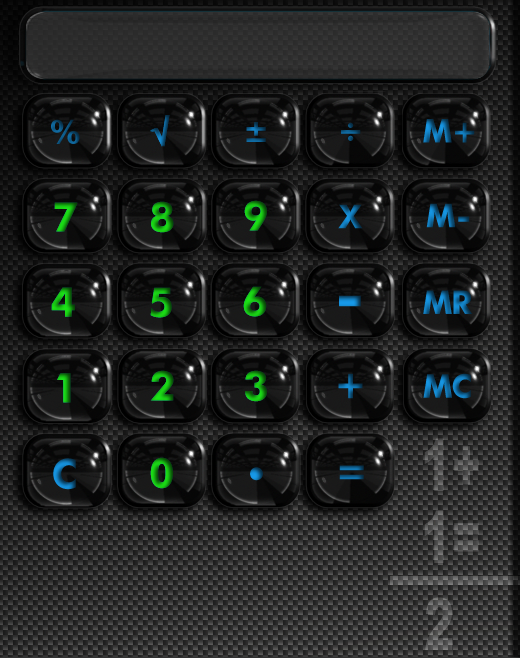
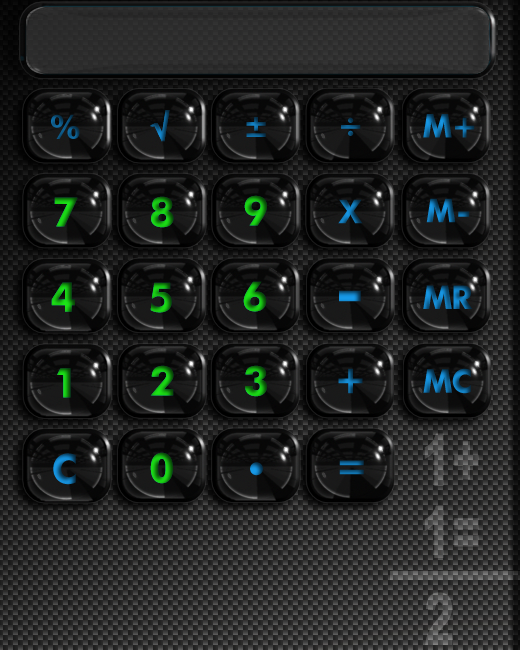
pushing new carbon fiber skin up to jacky's test page fore review

diff --git a/css/calc.css b/css/calc.css
@@ -2,6 +2,9 @@
   font-family: 'LCD';
   src: url(../fonts/LCDMonoWinTT/LCDM2N__.TTF);
 }
+body {
+  background-image: url(../images/skins/touchpad1/tile_1.png);
+}
 .hidden {
   display: none;
 }
@@ -13,21 +16,26 @@
 .calcheader .enyo-header-inner {
   padding: 5px 15px;
 }
+.operationsScroller {
+  background-image: url(../images/skins/touchpad1/left_large_tile_1.png);  
+}
 .operationsArea {
   padding-left: 10px;
   padding-right: 10px;
   padding-bottom: 10px;
   padding-top: 0px;
+  background-image: url(../images/skins/touchpad1/full_off_1.png);
+  background-repeat: no-repeat;
 }
 .operationsArea .buttons {
   padding: 5px;
-  margin-top: 5px;  
-  margin-left: 6px;  
+  margin-top: 1px;  
+  margin-left: 5px;  
 }
 .operationsArea .calcbutton {
-  width: 95px;
+  width: 97px;
   height: 85px;
-  background-image: url(../images/skins/touchpad1/buttons_off.png);
+  background-image: url(../images/skins/touchpad1/buttons_off_1.png);
   background-position: 0px 0px;
   background-repeat: no-repeat;
   /*line-height: 40px;
@@ -54,12 +62,15 @@
 /* columns -----------------------------------*/
 .operationsArea .calcbutton.col2 {
   background-position-x: -97px;
+  width: 99px;
 }
 .operationsArea .calcbutton.col3 {
-  background-position-x: -195px;
+  background-position-x: -197px;
+  width: 95px;
 }
 .operationsArea .calcbutton.col4 {
   background-position-x: -292px;
+  width: 95px;
 }
 .operationsArea .calcbutton.col5 {
   background-position-x: -388px;
@@ -79,8 +90,8 @@
   height: 70px;
   width: 485px;
   /*box-shadow: 3px 3px 3px #888888;*/
-  background-image: url(../images/skins/touchpad1/display.png);
-  background-repeat: no-repeat;
+  /*background-image: url(../images/skins/touchpad1/display_1.png);
+  background-repeat: no-repeat;*/
 }
 .display span {
   display: block;
@@ -100,13 +111,16 @@
   /*width: 270px;*/
   width: 100%;
   padding: 20px;
+  background-image: url(../images/skins/touchpad1/tile_1.png);
 }
 .scrollingArea div {
   text-align: right;
   /*width: 270px;*/
   width: 100%;
   font-family: "Courier New", Courier, monospace;
-  font-size: 14px;
+  font-size: 16px;
+  font-weight: bold;
+  color: white;
 }
 .scrollingArea div div {
   text-align: right;
@@ -116,7 +130,7 @@
   color: red;
 }
 .setTotal {
-  color: green;
+  color: #16b812 !important;
   padding-bottom: 15px;
 }
 .equalsDivider {

diff --git a/source/ui.js b/source/ui.js
@@ -23,7 +23,7 @@
       {name: "slidingPane", kind: "SlidingPane", flex: 1, components: [
         {name: "left", width: "520px", kind:"SlidingView", components: [
             {kind: "Header", className: "calcheader", content:"Panel 1"},
-            {kind: "Scroller", flex: 1, components: [
+            {kind: "Scroller", className: "operationsScroller", flex: 1, components: [
               {name: "operations", kind: "VFlexBox", flex: 1, className: "operationsArea", components: [
                 {name: "display", className: "display", kind: "HtmlContent", content: "<div id='memDiv' class='hidden'>M<span id='memVal'></span></div><span id='displayVal'>0</span>"}, 
                 {name: "buttons", className: "buttons", kind: "Calc.UI.Buttons", onButtonClicked: "doButtonClicked"}
